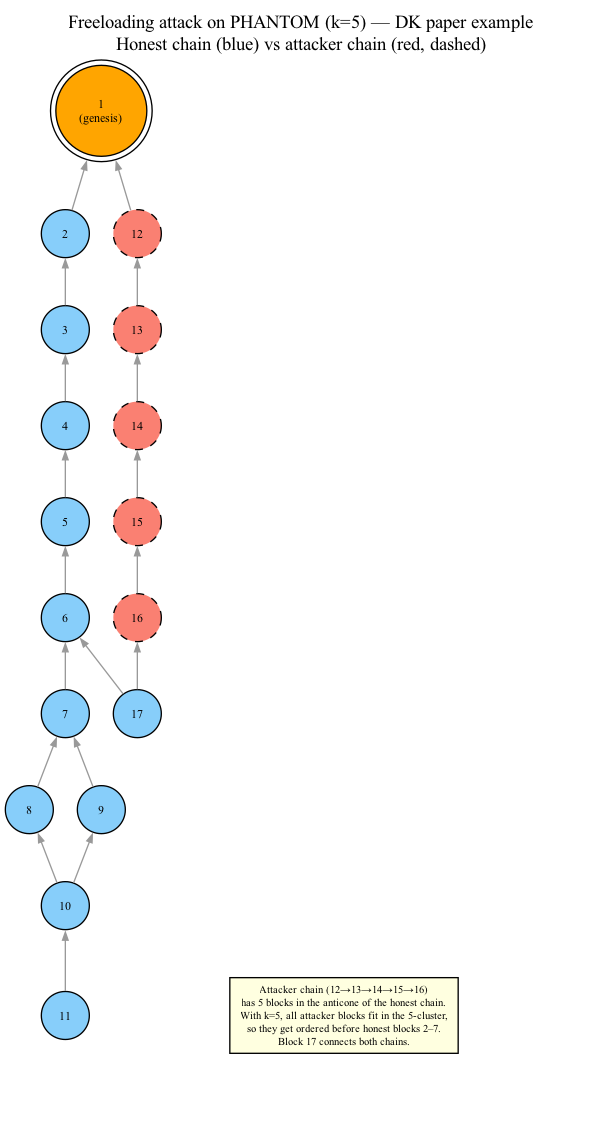
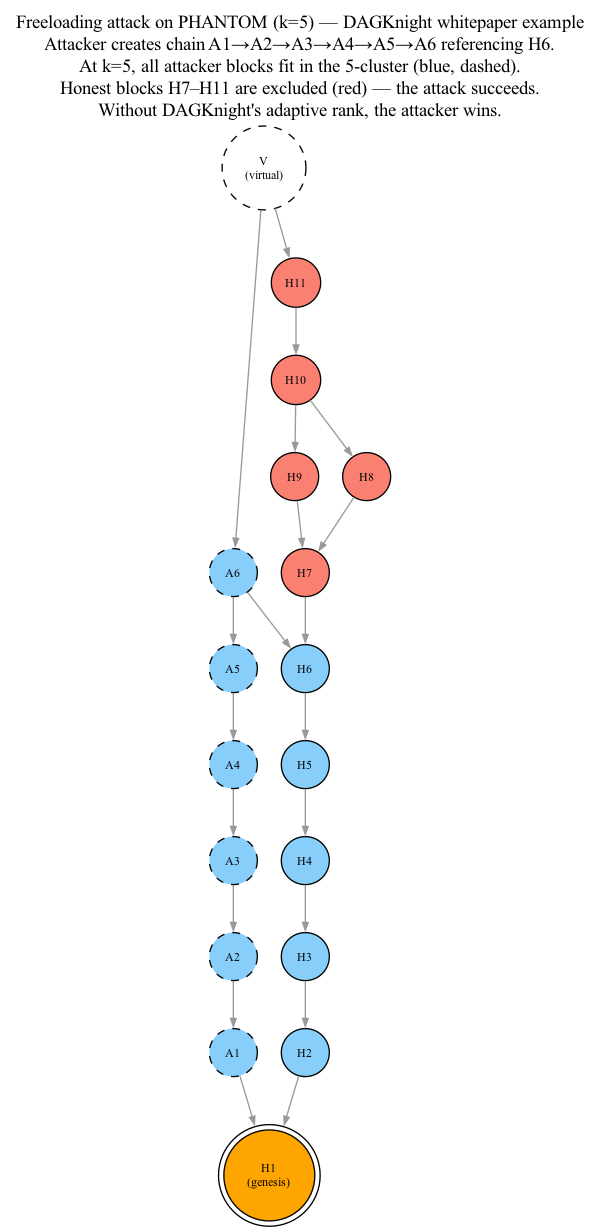
Chapter 2 revisions

diff --git a/02-k-clusters.md b/02-k-clusters.md
@@ -57,13 +57,13 @@ The largest k-cluster (where k ≈ D × λ, with D being network delay and λ be
 
 Consider a network with very low latency (blocks form an almost-linear chain). PHANTOM is parameterized with k = 5 for safety.
 
-The attacker creates a separate chain of 5 blocks (12→13→14→15→16) starting from genesis, concurrent with the honest chain (2→3→4→5→6→7). Block 17 connects both chains.
+The attacker creates a chain of blocks (A1→A2→A3→A4→A5) starting from genesis, concurrent with the honest chain. Block A6 connects both chains by referencing H6 and A5. This example is taken from the DAGKnight whitepaper.
 
 ![Freeloading attack on PHANTOM](png/02-freeloading.png)
 
-Because k = 5, the attacker's chain has at most 5 concurrent blocks within the honest chain. PHANTOM includes all attacker blocks in the largest 5-cluster, ordering them before honest blocks 2–7. The attacker rides along with the honest chain's proof-of-work without contributing meaningful work.
+Because k = 5, all attacker blocks fit in the 5-cluster and are colored **blue** (cluster members). The honest blocks H7–H11 are excluded and colored **red**. The attacker wins — honest blocks are pushed out of the cluster by attacker blocks.
 
-This is called **freeloading** — the attacker exploits the fixed k parameter to inject blocks into the cluster.
+This is called **freeloading** — the attacker exploits the fixed k parameter to inject blocks into the cluster, using the honest network's work to boost their own total work while pushing honest blocks out.
 
 ## Why Parameterization Is a Problem
 
@@ -104,6 +104,18 @@ KNIGHT: Find the MINIMUM k such that the largest k-cluster covers at least 50% o
 This is a **dual optimization**:
 - **Minimize k** — to exclude attacker blocks (smaller k means fewer blocks can freeload)
 - **Maximize k-cluster size** — to ensure enough honest blocks are included (need >50% coverage)
+
+### Same DAG, DAGKnight's Result
+
+Applying DAGKnight to the same freeloading DAG above, it searches for the minimum k and finds that **k = 0** is sufficient to cover the majority:
+
+![DAGKnight response to the same freeloading DAG](png/02-dagknight-response.png)
+
+All attacker blocks (A1–A6) are **red** (excluded). All honest blocks are **blue** except H8, which is **gray**. DAGKnight selects the honest chain as the k=0 cluster, neutralizing the attack entirely.
+
+### Gray Blocks (Deviation from the Paper)
+
+This example is also from the DAGKnight paper showing how it would color this conflict zone. As a deviation from the original paper, notice that H8 is gray. Gray blocks will be discussed in detail in future chapters. Simply put, they are red blocks (not in the cluster) but they don't vote against the winning side of the conflict, so they are effectively ignored.
 
 The minimum k that satisfies the majority condition is called the **rank** of the DAG (more on this in Chapter 06).
 
